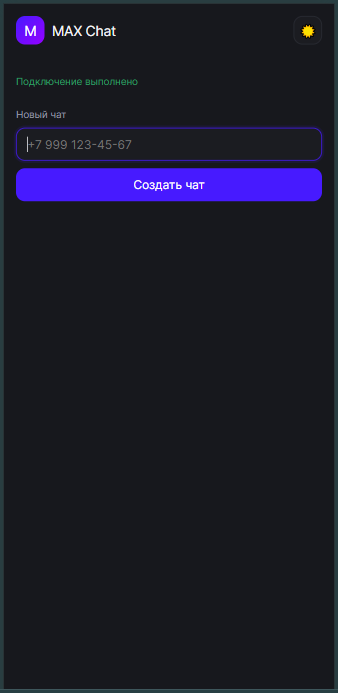
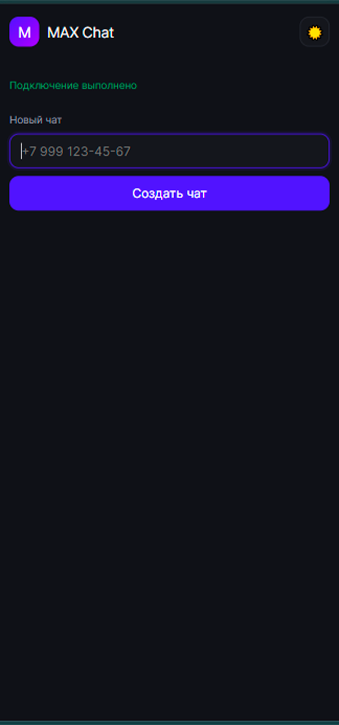
one more fix size screenshots

diff --git a/README.md b/README.md
@@ -13,42 +13,23 @@ https://max-chat-green-4ncdpntta-devlyashows-projects.vercel.app/
 </p>
 
 <p align="center">
-  <img
-    src="./screenshots/chat.png"
-    width="850"
-    alt="MAX Chat desktop"
-  />
+  <img src="./screenshots/chat.png" width="850" alt="MAX Chat desktop" />
 </p>
 
 <table>
   <tr>
     <td align="center" width="33%">
       <strong>Authorization</strong><br><br>
-      <img
-        src="./screenshots/auth.png"
-        height="340"
-        alt="Authorization"
-      />
+      <img src="./screenshots/auth.png" height="340" alt="Authorization" />
     </td>
-
     <td align="center" width="33%">
       <strong>Mobile</strong><br><br>
-      <img
-        src="./screenshots/mobile.png"
-        height="340"
-        alt="Mobile version"
-      />
+      <img src="./screenshots/mobile.png" height="340" alt="Mobile version" />
     </td>
-
     <td align="center" width="33%">
       <strong>Dark theme</strong><br><br>
-      <img
-        src="./screenshots/dark-theme.png"
-        height="340"
-        alt="Dark theme"
-      />
+      <img src="./screenshots/dark-theme.png" height="340" alt="Dark theme" />
     </td>
-
   </tr>
 </table>
 
